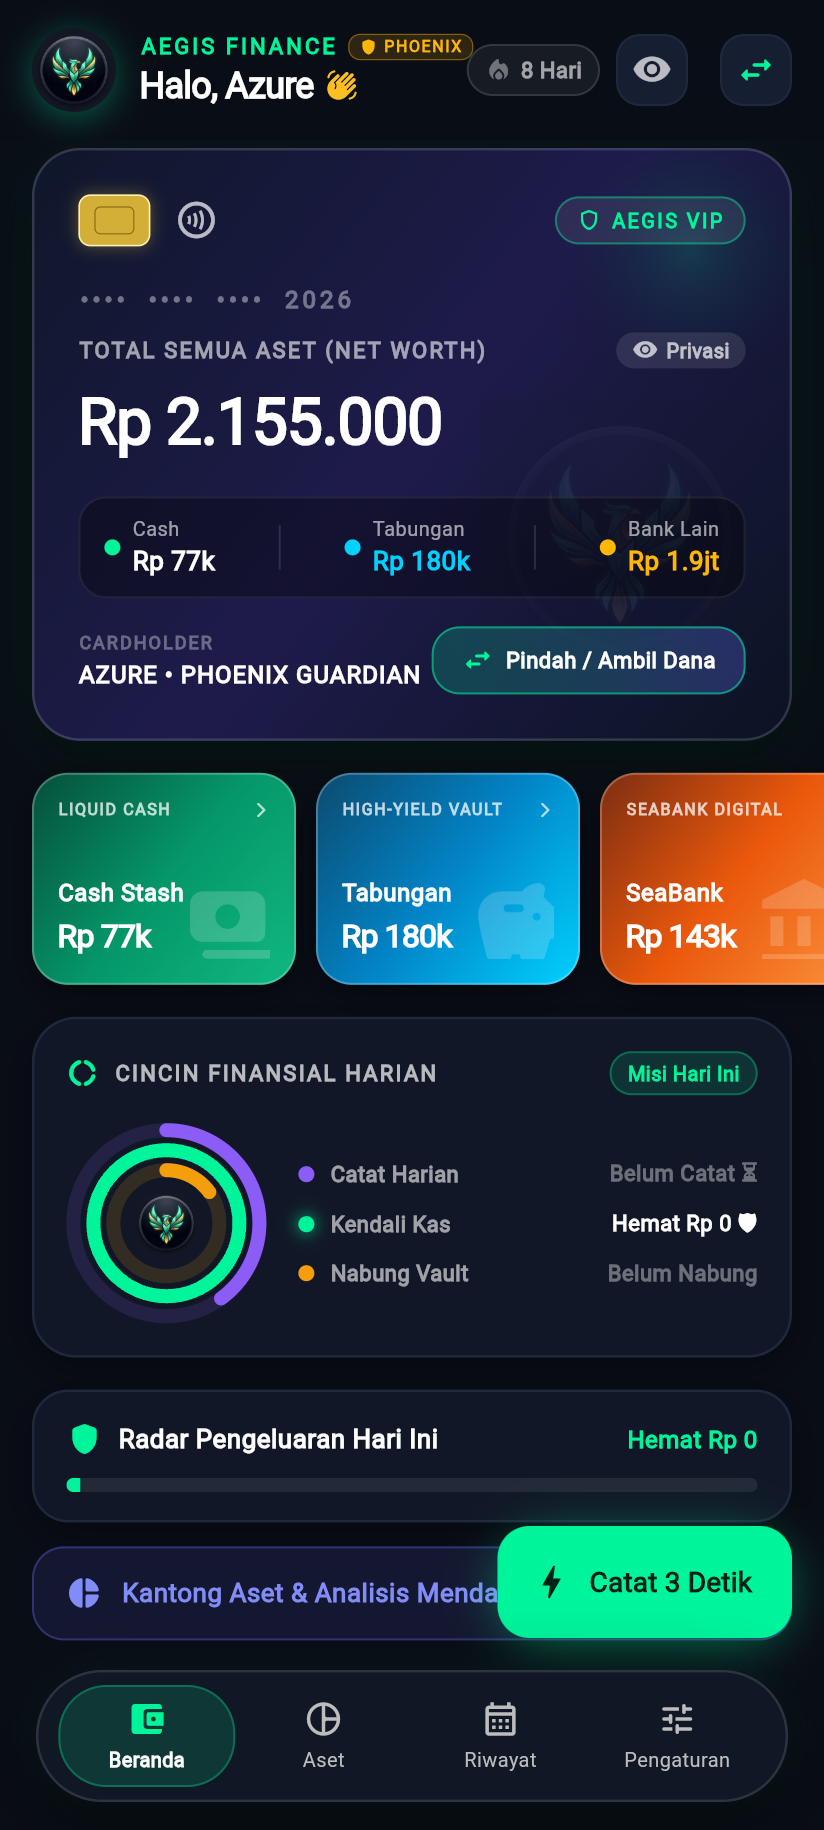
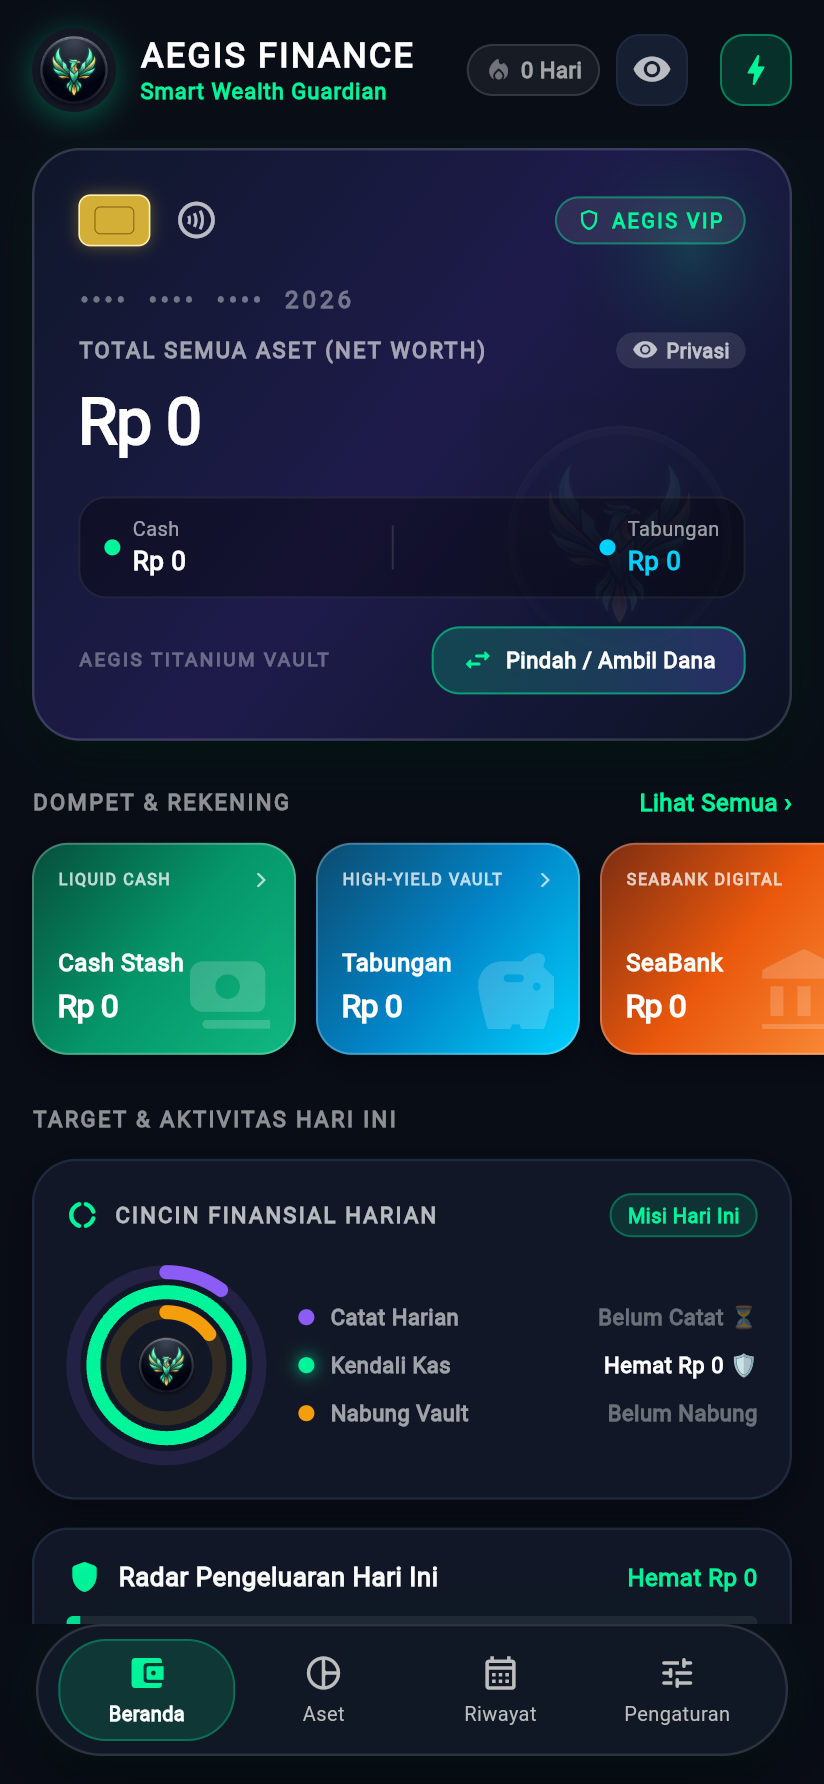
docs: streamline README with compact showcase, fresh screenshots, and collapsible tech specs

Changed region(s): [[0.0303, 0.0, 1.0, 0.9865], [0.7585, 0.185, 0.9102, 0.2158], [0.9405, 0.7399, 0.9709, 0.7707]]

diff --git a/README.md b/README.md
@@ -1,12 +1,12 @@
 <p align="center">
-  <img src="docs/screenshots/aegis_mascot_logo.jpg" alt="Aegis Finance Mascot" width="120" style="border-radius: 28px; box-shadow: 0 10px 30px rgba(0,245,155,0.3);"/>
+  <img src="docs/screenshots/aegis_mascot_logo.jpg" alt="Aegis Finance Mascot" width="110" style="border-radius: 24px; box-shadow: 0 10px 30px rgba(0,245,155,0.25);"/>
 </p>
 
 <h1 align="center">🛡 Aegis Finance</h1>
 
 <p align="center">
-  <strong>Smart Wealth Guardian & Offline-First Personal Finance</strong><br>
-  Aplikasi pembukuan keuangan modern dengan estetika <em>Obsidian Cosmic</em>, visual cincin aktivitas finansial ala <em>Apple Watch</em>, dan proteksi keamanan <em>Aegis Security Vault</em> berstandar tinggi.
+  <strong>Smart Wealth Guardian & 100% Offline-First Personal Finance</strong><br>
+  Aplikasi pembukuan keuangan modern dengan estetika <em>Obsidian Cosmic</em>, visual cincin aktivitas finansial ala <em>Apple Watch</em>, dan brankas privasi <em>Aegis Security Vault</em>.
 </p>
 
 <p align="center">
@@ -14,15 +14,14 @@
   <img src="https://img.shields.io/badge/Dart-3.x-0175C2?logo=dart" alt="Dart"/>
   <img src="https://img.shields.io/badge/Tests-29%2F29%20Passed-10B981" alt="Tests"/>
   <img src="https://img.shields.io/badge/Privacy-100%25%20Offline--First-00F59B" alt="Privacy"/>
-  <img src="https://img.shields.io/badge/Platform-Android%20%7C%20Web-FF7043" alt="Platform"/>
   <img src="https://img.shields.io/badge/License-MIT-F59E0B" alt="License"/>
 </p>
 
 ---
 
-## 📥 Download Langsung (Installer APK Siap Pakai)
+## 📥 Download Installer (APK Siap Pakai)
 
-Bagi pengguna umum atau teman-teman yang ingin langsung menggunakan Aegis Finance di HP Android, **tidak perlu setup Flutter atau coding dari awal!** Cukup unduh installer APK resmi di bawah ini:
+Tidak perlu setup Flutter atau compile source code dari nol. Unduh APK resmi dan pasang langsung di HP Android Anda:
 
 <p align="center">
   <a href="https://github.com/M-Aqilaz/Aegis-Finance-Track/releases/latest/download/AegisFinance-Universal.apk">
@@ -30,22 +29,10 @@ Bagi pengguna umum atau teman-teman yang ingin langsung menggunakan Aegis Financ
   </a>
 </p>
 
-### 📱 Panduan Install Cepat di HP Android (3 Langkah):
-1. **Download**: Klik tombol download di atas atau unduh melalui halaman [GitHub Releases](https://github.com/M-Aqilaz/Aegis-Finance-Track/releases/latest).
-2. **Pasang (Install)**: Buka file `.apk` hasil unduhan di HP Anda. Jika muncul notifikasi *"Izinkan instalasi dari sumber ini"*, pilih **Izinkan (Allow)**.
-3. **Beres**: Buka aplikasi dan nikmati pembukuan keuangan pribadi yang 100% offline, tanpa iklan, dan tanpa perlu login/registrasi akun!
-
----
-
-## 🌟 Overview & Filosofi Desain
-
-Sebagian besar aplikasi pencatat keuangan terasa seperti tabel spreadsheet yang kaku atau mainan kasual yang penuh iklan dan spam notifikasi. **Aegis Finance** dirancang dengan pendekatan prestise, ketenangan pikiran, dan privasi mutlak:
-
-1. **Hierarchy of Truth (Net Worth First)**: Total kekayaan riil (*Net Worth*) dan akun kas Anda ditampilkan di urutan teratas secara elegan dan transparan. Bebas dari clutter visual yang membingungkan.
-2. **Privasi Mutlak & Zero-Leak (100% Offline-First)**: Data keuangan Anda adalah privasi sakral. Seluruh transaksi dan saldo tersimpan secara lokal di perangkat Anda (*Local Storage*). Tidak ada cloud pihak ketiga, tidak ada tracking analitik, dan instalasi baru di perangkat lain dimulai bersih (*zero balance*) tanpa kebocoran data.
-3. **Desain Universal Bebas Hardcode**: Antarmuka bersih dengan identitas universal (*AEGIS FINANCE - Smart Wealth Guardian*) yang nyaman dan relevan digunakan oleh siapa pun.
-4. **Gamifikasi Cincin Aktivitas Finansial**: Menggantikan banner streak yang mencolok dengan mikro-pill api halus dan tiga cincin konsentris yang terinspirasi dari Apple Watch Activity Rings.
-5. **Migrasi Perangkat Tanpa Ribet (Pindah HP Jadi Mudah)**: Zero-cloud bukan berarti data Anda terkunci di satu HP. Anda bisa mencadangkan dan memindahkan seluruh saldo dan riwayat ke HP baru semudah menyalin teks ke chat WhatsApp atau mengekspor file cadangan.
+> **Panduan Install 3 Langkah:**
+> 1. Klik tombol **Download APK** di atas (atau via [GitHub Releases](https://github.com/M-Aqilaz/Aegis-Finance-Track/releases/latest)).
+> 2. Buka file `.apk` yang telah diunduh di HP Anda, lalu pilih **Izinkan instalasi**.
+> 3. Selesai! Aplikasi langsung siap digunakan tanpa iklan, tanpa login, dan 100% offline.
 
 ---
 
@@ -53,128 +40,77 @@ Sebagian besar aplikasi pencatat keuangan terasa seperti tabel spreadsheet yang 
 
 <table align="center">
   <tr>
-    <td align="center"><b>Dashboard & Net Worth</b></td>
-    <td align="center"><b>Aegis Security Vault (PIN Lock)</b></td>
-    <td align="center"><b>Pengaturan & Privasi Vault</b></td>
+    <td align="center"><b>Beranda (Net Worth)</b></td>
+    <td align="center"><b>Riwayat & Filter</b></td>
+    <td align="center"><b>Pengaturan & Cadangan</b></td>
+    <td align="center"><b>PIN Security Vault</b></td>
   </tr>
   <tr>
-    <td><img src="docs/screenshots/aegis_finance_preview.png" width="260"/></td>
-    <td><img src="docs/screenshots/aegis_pin_lock_preview.png" width="260"/></td>
-    <td><img src="docs/screenshots/aegis_settings_preview.png" width="260"/></td>
+    <td><img src="docs/screenshots/aegis_finance_preview.png" width="190"/></td>
+    <td><img src="docs/screenshots/aegis_history_preview.png" width="190"/></td>
+    <td><img src="docs/screenshots/aegis_settings_preview.png" width="190"/></td>
+    <td><img src="docs/screenshots/aegis_pin_lock_preview.png" width="190"/></td>
   </tr>
 </table>
 
 ---
 
-## ⚡ Fitur Utama (Core Features)
+## ✨ Fitur Unggulan
 
-### 1. 💳 Black Titanium VIP Card & Multi-Pocket Assets
-* **Net Worth Real-Time**: Pantau total akumulasi kekayaan secara terpusat, memadukan sisa kas cair (*Cash Stash*), brankas tabungan (*High-Yield Vault*), dan rekening digital (SeaBank, Bank Jago, atau kantong kustom lainnya).
-* **Detail Finishing Mewah**: Kartu titanium gelap dengan golden EMV chip, glyph contactless wave, dan ambient aura holografik.
-* **Pindah / Ambil Dana Seketika**: Transfer dana antar rekening atau tarik tabungan ke kas harian dengan hukum kekekalan dana (*conservation of funds*) tanpa selisih matematis.
-
-### 2. 🟣 🟢 🟡 Trio Cincin Finansial Konsentris (Apple Watch Style)
-* Digambar khusus dengan Flutter `CustomPainter` berkonsentris tiga:
-  * **Cincin 1 (Ungu Elektrik 🟣)**: *Catat Streak* — Memantau konsistensi pencatatan transaksi harian Anda.
-  * **Cincin 2 (Cyber-Mint 🟢)**: *Kendali Kas* — Radar real-time pengeluaran hari ini terhadap batas budget.
-  * **Cincin 3 (Solar Amber 🟡)**: *Nabung Vault* — Progres tabungan bulanan menuju target finansial.
-* Avatar maskot penjaga Aegis terletak elegan di pusat cincin.
-
-### 3. 🔒 Aegis Security Vault (PIN 4-Digit & Biometrik)
-* **Numpad Taktil Obsidian**: Keyboard angka custom bernuansa obsidian dengan sub-label alfabet (ABC, DEF...).
-* **Haptic Vibration Feedback**: Respons getaran taktil yang realistis pada penekanan tombol angka dan konfirmasi keamanan.
-* **Auto-Lock Lifecycle**: Otomatis mengunci aplikasi saat diminimalkan atau berpindah aplikasi untuk menjaga kerahasiaan.
-* **Buka Cepat Biometrik**: Shortcut autentikasi 1-tap menggunakan sidik jari atau Face ID.
-
-### 4. 👁 Sensor Privasi Cepat (Privacy Curtain)
-* Toggle 1-tap berlambang mata di top bar dan kartu Titanium VIP.
-* Seketika menyamarkan seluruh nominal angka saldo menjadi `Rp ••••••••` dan `Rp •••`, sehingga Anda bisa mencatat pengeluaran di kafe atau tempat umum dengan nyaman tanpa khawatir orang di sebelah melirik saldo Anda.
-
-### 5. ⚡ Pencatatan Kilat 3 Detik (Quick-Log)
-* Modal lembar bawah (*BottomSheet*) gesit dengan numpad taktil terintegrasi.
-* Chip nominal instan (`+5k`, `+10k`, `+20k`, `+50k`, `+100k`) dan avatar kategori ekspresif untuk mencatat pengeluaran atau pemasukan harian dalam waktu kurang dari 3 detik.
-
-### 6. 📅 Riwayat Keuangan & Filter Cerdas
-* **Filter Interaktif**: Filter chip fungsional (*Semua*, *Pengeluaran*, *Pemasukan*, *Simpan*) untuk meninjau arus kas harian tanpa gangguan visual.
-* **Rincian Transaksi Expandable**: Rincian pengeluaran per hari dapat diperluas (*expand/collapse*) untuk melihat rincian item, waktu, dan kategori.
-* **Rekapitulasi Bulanan**: Ringkasan akumulasi masuk, keluar, dan simpanan per bulan kalender.
-
-### 7. 📲 Pusat Cadangan & Pindah HP (Device Migration)
-* **Bebas Istilah Teknis**: Tidak perlu memahami format JSON yang membingungkan.
-* **Salin Kode Cadangan (Kirim ke Chat/WA)**: Cukup salin kode cadangan dan kirimkan ke chat WhatsApp pribadi Anda atau simpan di Catatan HP.
-* **Pemulihan 1-Tap**: Di HP baru, cukup pilih file cadangan atau tempel kodenya untuk memulihkan seluruh saldo aset, dompet, dan riwayat catatan dalam hitungan detik.
-
-### 8. ⏰ Pengingat Harian Otomatis
-* Notifikasi lokal terjadwal di jam pilihan pengguna (misal pukul 20:00 WIB) agar tidak ada pengeluaran harian yang terlewat dicatat.
-* Dilengkapi tombol uji coba notifikasi instan langsung dari menu pengaturan.
+* 💳 **Black Titanium Card & Multi-Pocket**: Pantau kekayaan riil (*Net Worth*), sisa kas harian, tabungan vault, dan rekening bank (SeaBank, Bank Jago, dll) lengkap dengan fitur transfer dana antar kantong.
+* 🟣🟢🟡 **Trio Cincin Finansial Konsentris**: Visualisasi radar Apple Watch untuk memantau konsistensi streak harian, kendali pengeluaran vs budget, dan progres target tabungan.
+* 🔒 **Aegis Security Vault**: Kunci aplikasi dengan PIN 4-digit taktil, haptic feedback getar, sensor biometrik (sidik jari/Face ID), dan auto-lock saat aplikasi diminimalkan.
+* 👁 **Sensor Privasi Cepat (1-Tap)**: Seketika menyamarkan seluruh nominal angka saldo menjadi `Rp ••••••••` saat berada di kafe atau tempat umum.
+* ⚡ **Pencatatan Kilat 3 Detik**: Numpad taktil dan chip angka instan (`+5k`, `+10k`, `+20k`, `+50k`, `+100k`) untuk mencatat transaksi harian tanpa buang waktu.
+* 📅 **Riwayat & Filter Fleksibel**: Filter cepat (*Semua, Pengeluaran, Pemasukan, Simpan*) dan rincian transaksi harian yang dapat dibuka/tutup (*expandable*).
+* 📲 **Pindah HP Tanpa Ribet**: Cadangkan data dan pulihkan di perangkat baru semudah menyalin kode ke WhatsApp pribadi atau menyimpan file cadangan. Tanpa istilah JSON yang membingungkan.
+* 🔔 **Pengingat Harian Otomatis**: Notifikasi harian lokal terjadwal agar pembukuan tidak pernah terlewat.
 
 ---
 
-## 📐 Invariant Matematika & Arsitektur Perhitungan
+<details>
+<summary>📐 <b>Detail Matematis & Automated Test Suite (29/29 Passed)</b></summary>
+<br>
 
-Aegis Finance dibangun di atas fondasi invariant matematis ketat yang diuji secara deterministik:
+Aegis Finance dibangun dengan invariant matematis ketat dan diuji dengan **29 unit test deterministik**:
 
-| Metrik Finansial | Definisi Operasional | Rumus Invariant Matematis |
+| Metrik | Definisi | Rumus Invariant Matematis |
 |---|---|---|
-| **Sisa Kas (Cash)** | Kas cair operasional harian | $\text{Sisa}_t = \text{Sisa}_{t-1} + \text{In}_t - \text{Out}_t - \text{Save}_t + \Delta_{\text{transfer}}$ |
-| **Total Simpan** | Akumulasi tabungan vault | $\text{TotalSimpan}_t = \text{TotalSimpan}_{t-1} + \text{Save}_t + \Delta_{\text{transfer}}$ |
-| **Net Worth** | Total kekayaan bersih konsolidasi | $\text{NetWorth} = \text{Sisa} + \text{Total Simpan} + \sum \text{CustomAssets}$ |
+| **Sisa Kas (Cash)** | Kas cair operasional | $\text{Sisa}_t = \text{Sisa}_{t-1} + \text{In}_t - \text{Out}_t - \text{Save}_t + \Delta_{\text{transfer}}$ |
+| **Total Simpan** | Brankas tabungan | $\text{TotalSimpan}_t = \text{TotalSimpan}_{t-1} + \text{Save}_t + \Delta_{\text{transfer}}$ |
+| **Net Worth** | Total kekayaan bersih | $\text{NetWorth} = \text{Sisa} + \text{Total Simpan} + \sum \text{CustomAssets}$ |
 
----
-
-## 🧪 Automated Test Suite (29/29 Passed)
-
-Aegis Finance mempertahankan 100% green test suite dengan 29 skenario pengujian otomatis (*white-box* & *black-box*):
-* **Recalculation Engine**: Pembuktian induktif perhitungan running balance Sisa Kas & Total Simpan lintas hari.
-* **Conservation of Assets**: Verifikasi kekekalan nilai total aset sebelum dan sesudah transfer dana antar rekening/kantong.
-* **Indonesian Currency Parser**: Pengujian parsing notasi angka Indonesia (`40k`, `50rb`, `1.5jt`, teks desimal).
-* **Storage Migration & Auto-Upgrade**: Validasi backward-compatibility impor data lama maupun format modern.
-* **Streak & Gamification Algorithms**: Perhitungan kontinuitas hari berturut-turut tanpa false positive.
-* **Aegis Vault PIN & Zero-Leak Security**: Validasi lifecycle PIN pengaman, biometrik, enkripsi lokal, dan inisialisasi data bersih.
-
-Untuk menjalankan seluruh unit test:
+Untuk menjalankan test:
 ```bash
 flutter test
 ```
+</details>
 
----
+<details>
+<summary>💻 <b>Panduan Developer (Build from Source)</b></summary>
+<br>
 
-## 🚀 Panduan Developer (Build dari Source)
-
-### Prasyarat
-* Flutter SDK (3.24+ disarankan)
-* Dart SDK 3.5+
-* Android Studio / VS Code
-
-### Instalasi & Menjalankan Aplikasi
-1. Clone repository:
-   ```bash
-   git clone https://github.com/M-Aqilaz/Aegis-Finance-Track.git
-   cd Aegis-Finance-Track
-   ```
-2. Pasang dependensi Flutter:
-   ```bash
-   flutter pub get
-   ```
-3. Jalankan aplikasi di emulator atau HP:
-   ```bash
-   flutter run
-   ```
-
-### Mengompilasi APK Rilis Sendiri
-Untuk mengompilasi APK rilis bertanda tangan (*Universal APK*):
 ```bash
+# 1. Clone repository
+git clone https://github.com/M-Aqilaz/Aegis-Finance-Track.git
+cd Aegis-Finance-Track
+
+# 2. Ambil dependensi
+flutter pub get
+
+# 3. Jalankan aplikasi
+flutter run
+
+# 4. Build release APK
 flutter build apk --release
 ```
-File APK siap instal akan berada di folder `build/app/outputs/flutter-apk/app-release.apk`.
+</details>
 
 ---
 
 ## 📜 Lisensi
 
 Didistribusikan di bawah **MIT License**. Lihat file `LICENSE` untuk informasi selengkapnya.
-
----
 
 <p align="center">
   Crafted with care by <strong>M.Aqilaz</strong>
